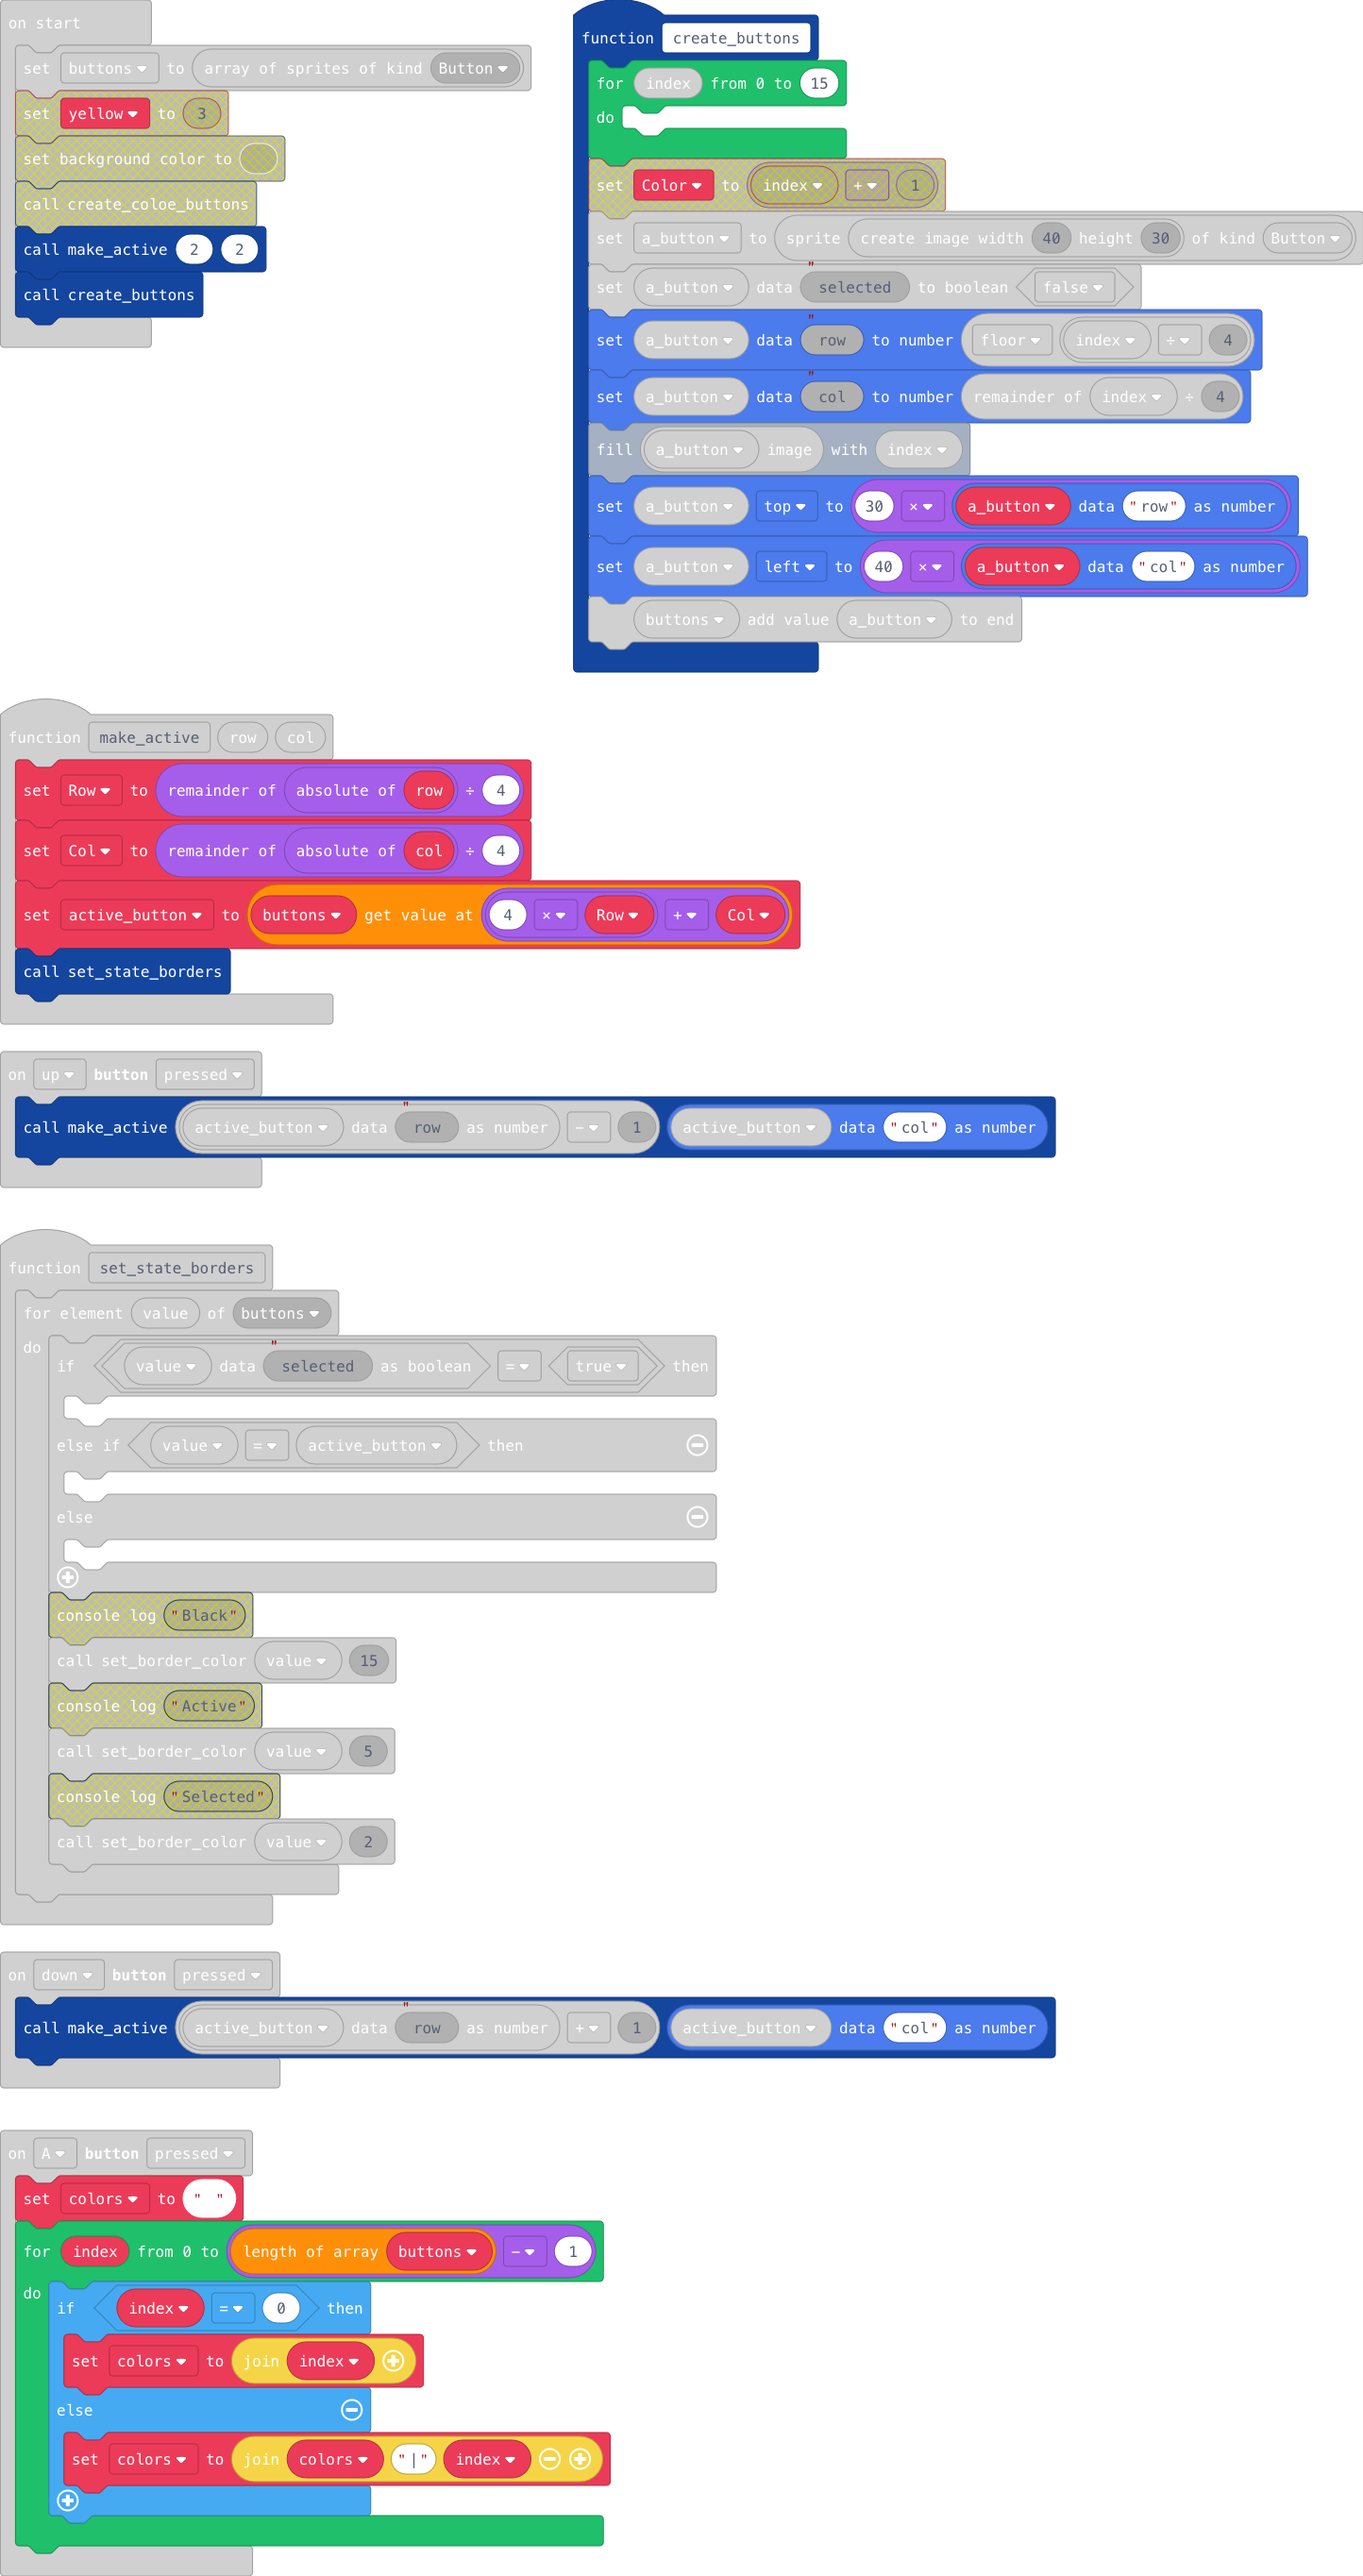
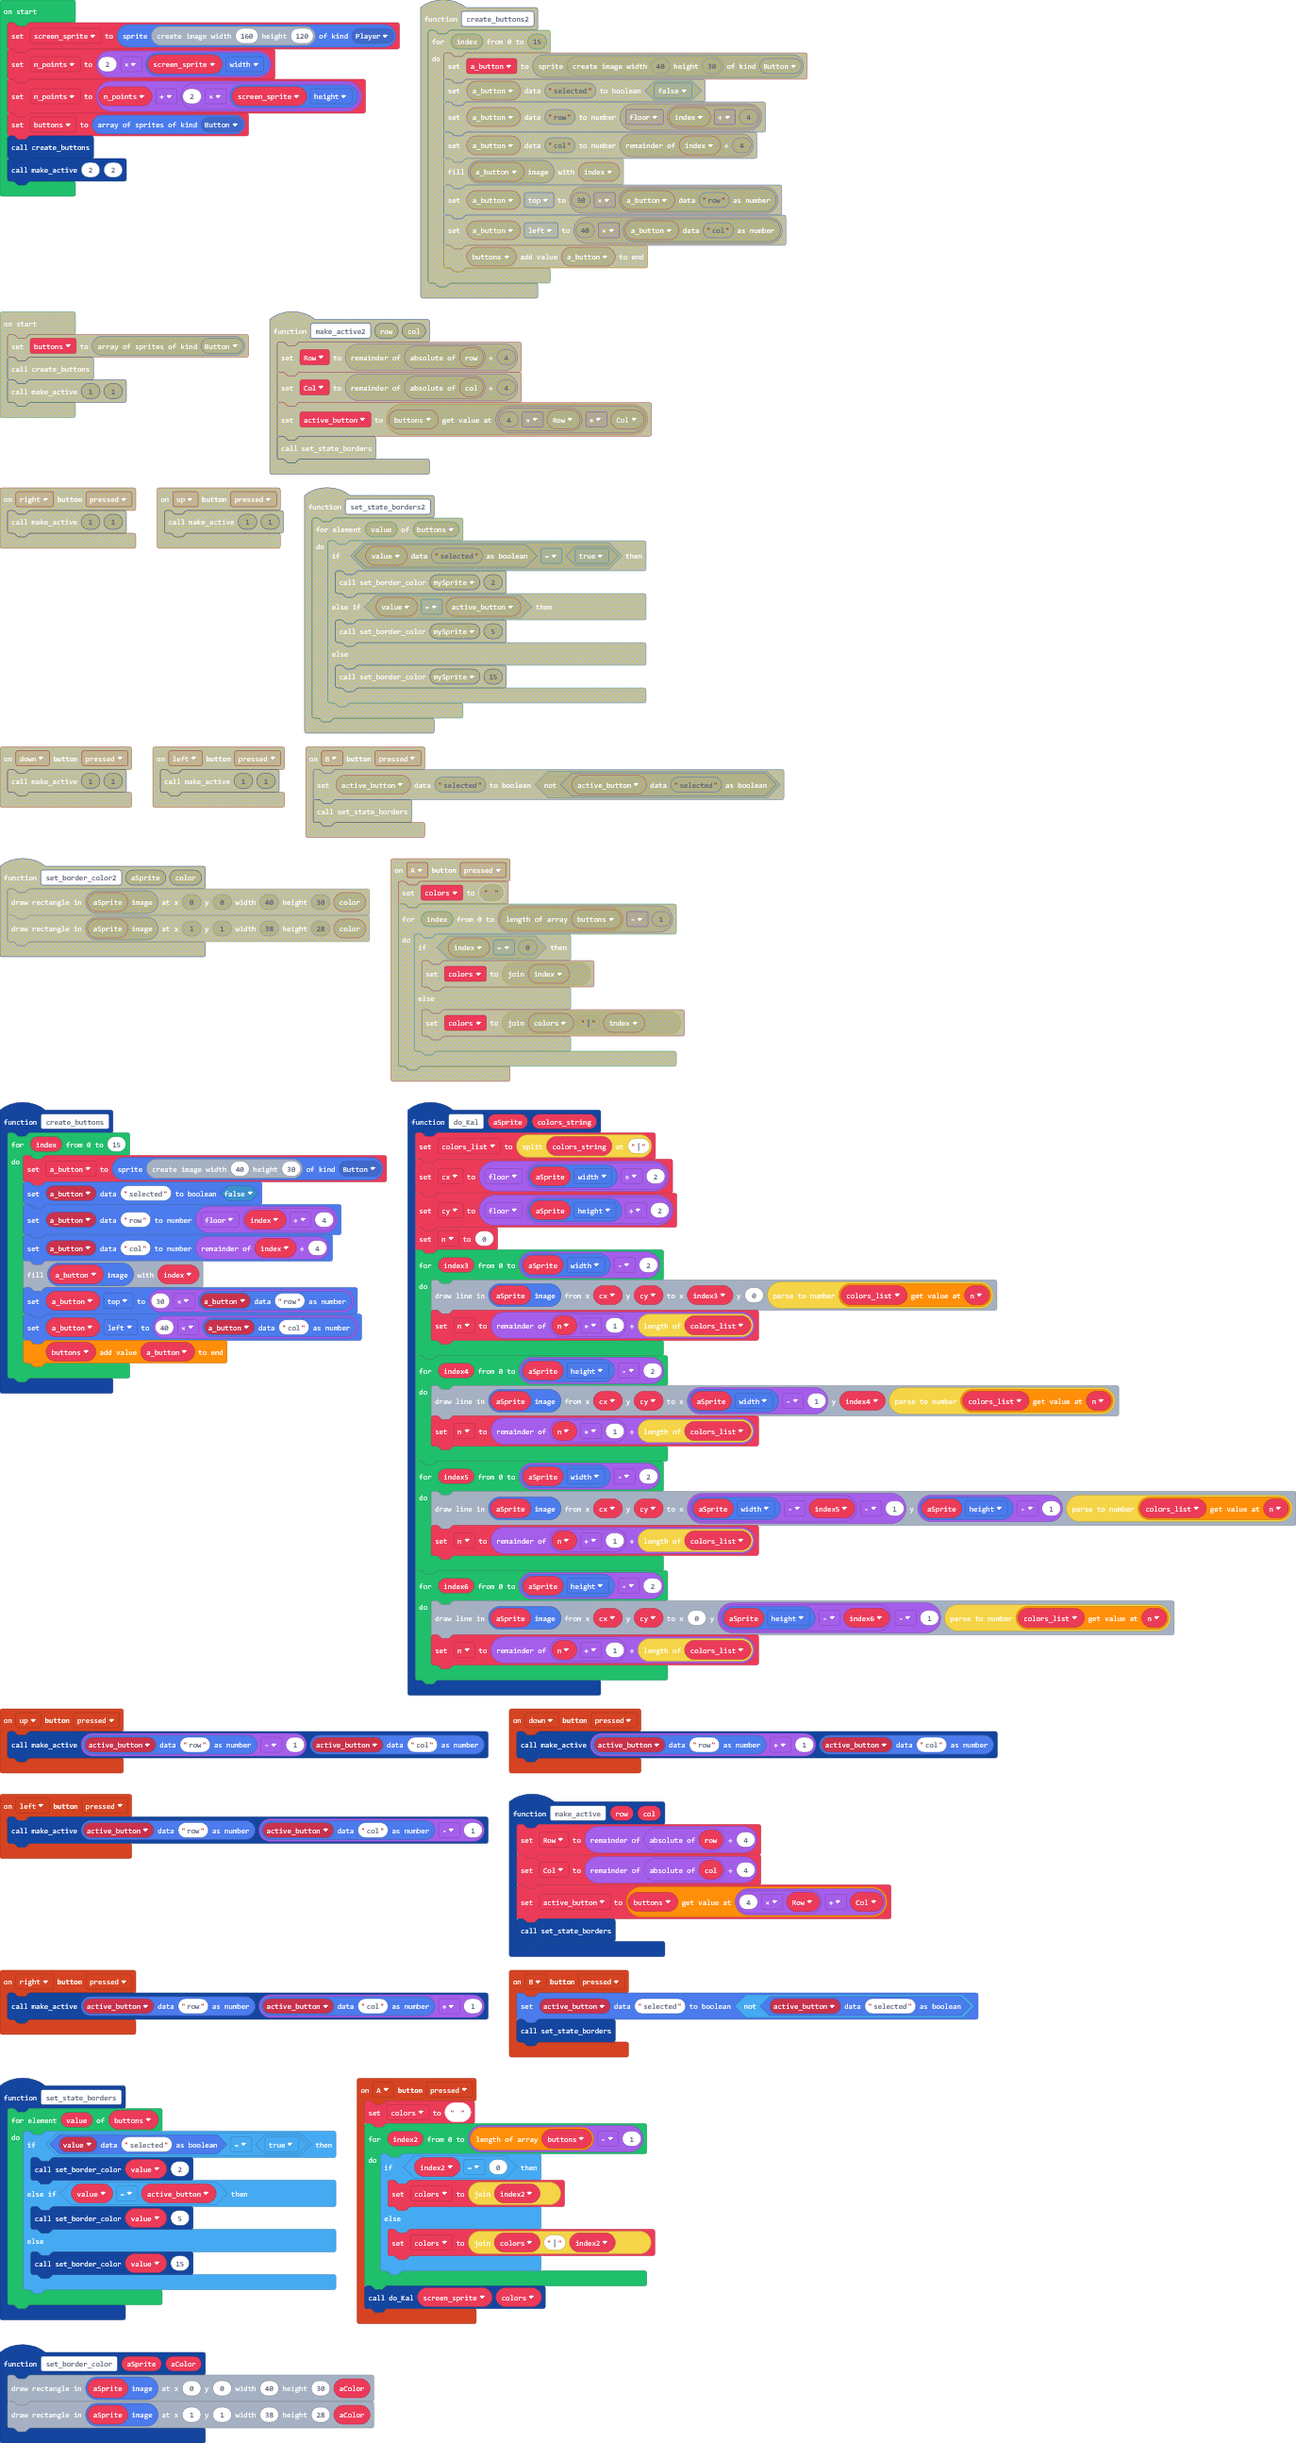
Update pxt.json, main.blocks, main.ts

diff --git a/main.ts b/main.ts
@@ -40,32 +40,63 @@ function set_state_borders () {
         }
     }
 }
+function do_Kal (aSprite: Sprite, colors_string: string) {
+    colors_list = colors_string.split("|")
+    cx = Math.floor(aSprite.width / 2)
+    cy = Math.floor(aSprite.height / 2)
+    n = 0
+    for (let index3 = 0; index3 <= aSprite.width - 2; index3++) {
+        aSprite.image.drawLine(cx, cy, index3, 0, parseFloat(colors_list[n]))
+        n = (n + 1) % colors_list.length
+    }
+    for (let index4 = 0; index4 <= aSprite.height - 2; index4++) {
+        aSprite.image.drawLine(cx, cy, aSprite.width - 1, index4, parseFloat(colors_list[n]))
+        n = (n + 1) % colors_list.length
+    }
+    for (let index5 = 0; index5 <= aSprite.width - 2; index5++) {
+        aSprite.image.drawLine(cx, cy, aSprite.width - index5 - 1, aSprite.height - 1, parseFloat(colors_list[n]))
+        n = (n + 1) % colors_list.length
+    }
+    for (let index6 = 0; index6 <= aSprite.height - 2; index6++) {
+        aSprite.image.drawLine(cx, cy, 0, aSprite.height - index6 - 1, parseFloat(colors_list[n]))
+        n = (n + 1) % colors_list.length
+    }
+}
 controller.A.onEvent(ControllerButtonEvent.Pressed, function () {
     colors = ""
-    for (let index = 0; index <= buttons.length - 1; index++) {
-        if (index == 0) {
-            colors = "" + index
+    for (let index2 = 0; index2 <= buttons.length - 1; index2++) {
+        if (index2 == 0) {
+            colors = "" + index2
         } else {
-            colors = "" + colors + "|" + index
+            colors = "" + colors + "|" + index2
         }
     }
+    do_Kal(screen_sprite, colors)
 })
 controller.right.onEvent(ControllerButtonEvent.Pressed, function () {
     make_active(sprites.readDataNumber(active_button, "row"), sprites.readDataNumber(active_button, "col") + 1)
 })
-function set_border_color (aSprite: Sprite, color: number) {
-    aSprite.image.drawRect(0, 0, 40, 30, color)
-    aSprite.image.drawRect(1, 1, 38, 28, color)
+function set_border_color (aSprite: Sprite, aColor: number) {
+    aSprite.image.drawRect(0, 0, 40, 30, aColor)
+    aSprite.image.drawRect(1, 1, 38, 28, aColor)
 }
 controller.up.onEvent(ControllerButtonEvent.Pressed, function () {
     make_active(sprites.readDataNumber(active_button, "row") - 1, sprites.readDataNumber(active_button, "col"))
 })
-let colors = ""
+let colors: string = []
+let n = 0
+let cy = 0
+let cx = 0
+let colors_list: string[] = []
 let Col = 0
 let Row = 0
 let active_button: Sprite = null
 let a_button: Sprite = null
 let buttons: Sprite[] = []
+let screen_sprite: Sprite = null
+screen_sprite = sprites.create(image.create(160, 120), SpriteKind.Player)
+let n_points = 2 * screen_sprite.width
+n_points = n_points + 2 * screen_sprite.height
 buttons = sprites.allOfKind(SpriteKind.Button)
 create_buttons()
 make_active(2, 2)
